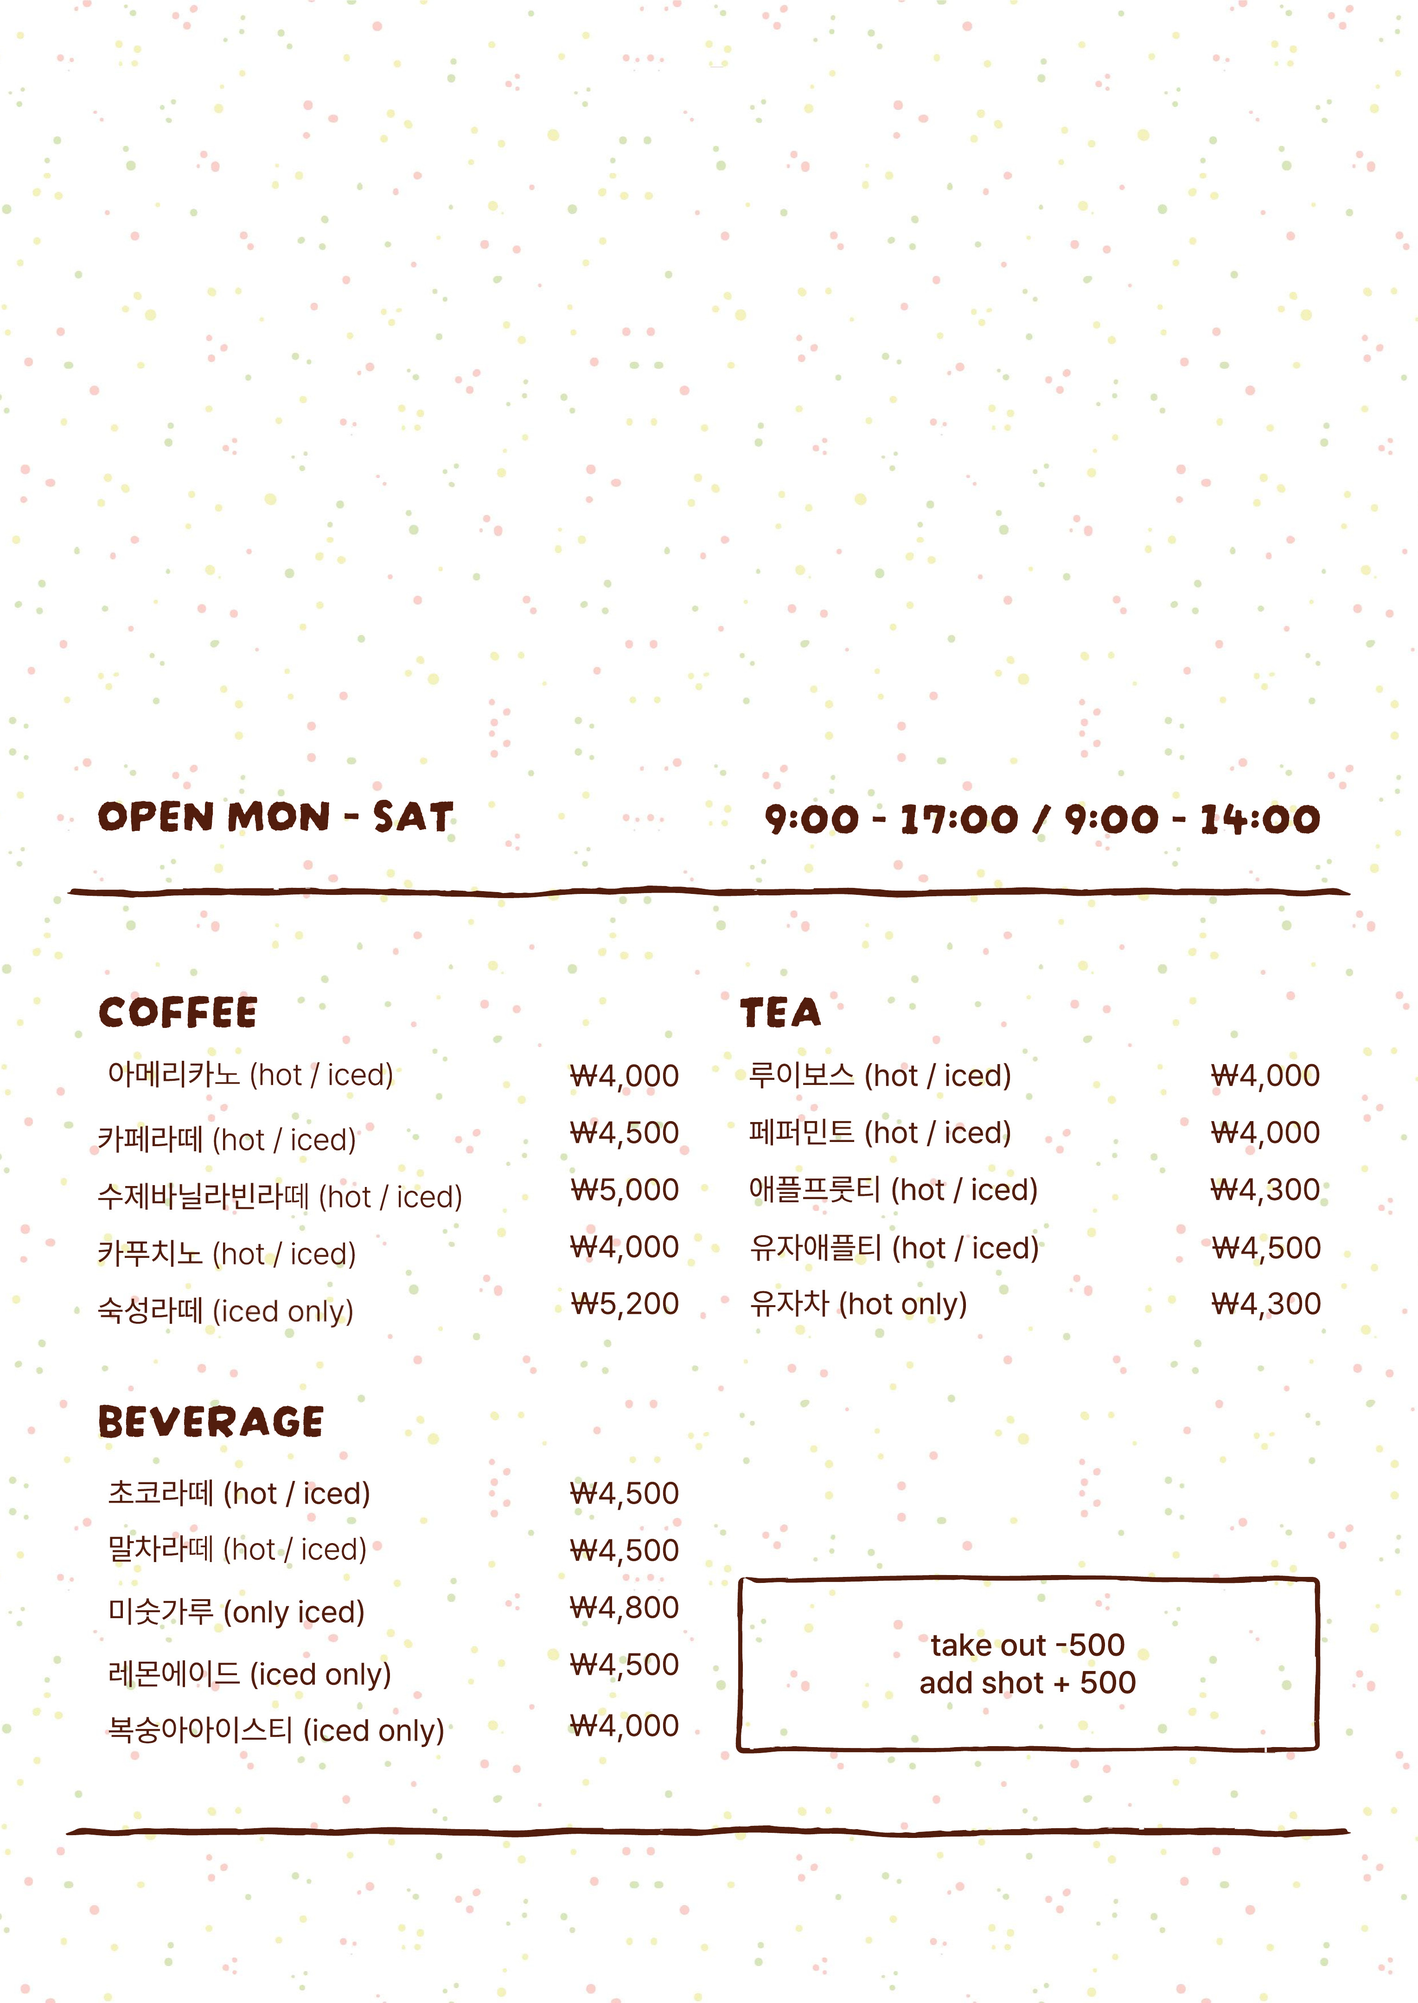
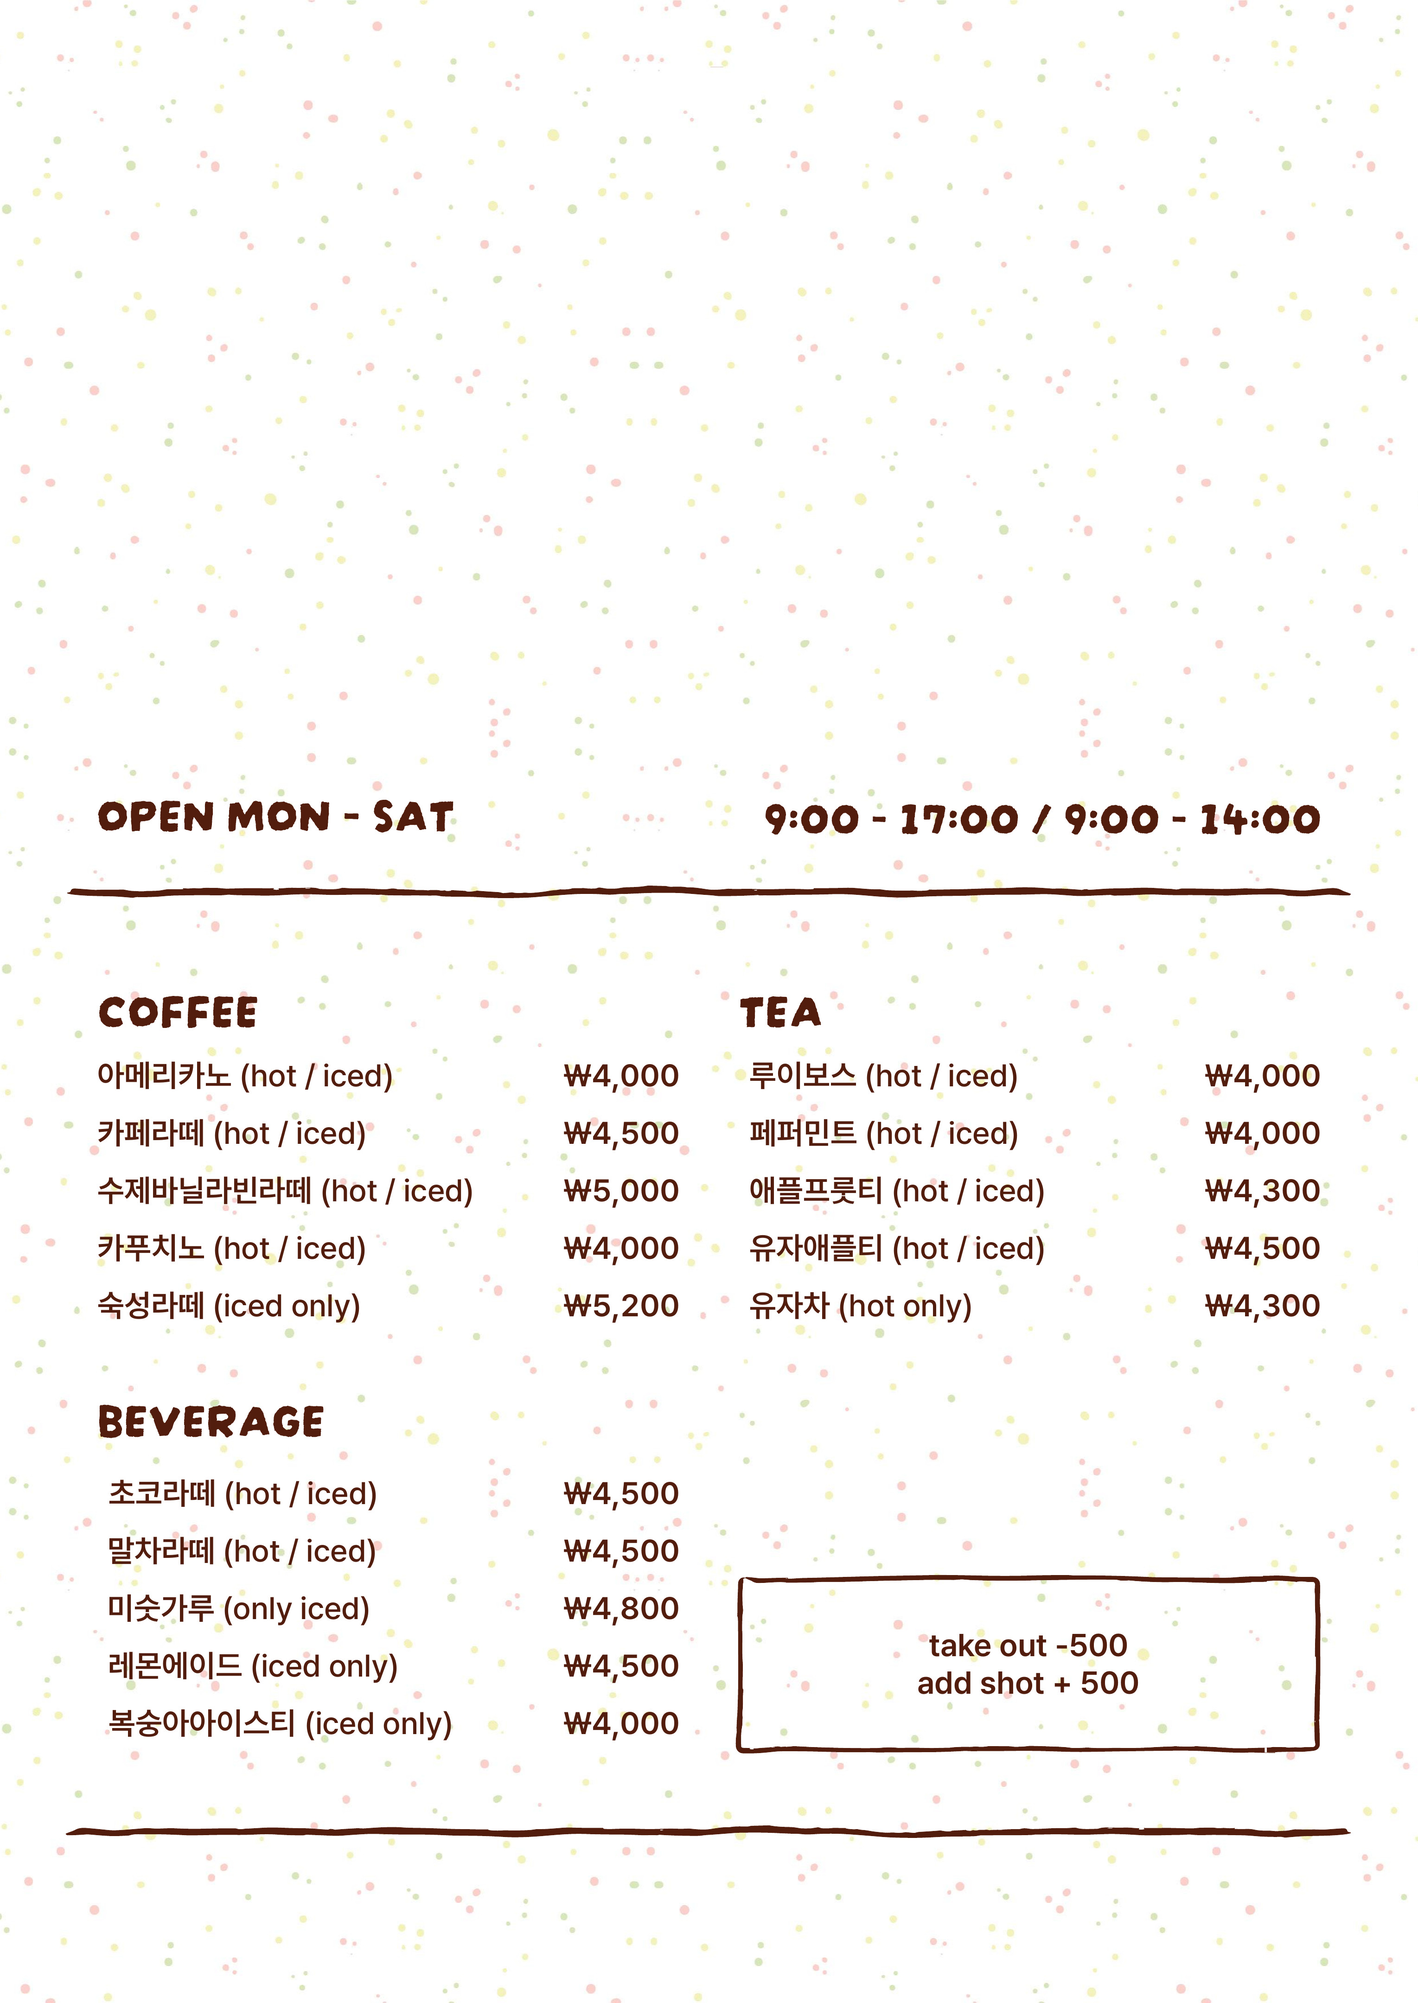
로고 20초 주기 반복·소금 뿌려지는 애니메이션, 메뉴 행 볼드 재조판, 아메리카노 정렬, Pick! 라벨, 전광판 로고 확대
Claude-Session: https://claude.ai/code/session_012HYTAtRX4y2XSQaXUTKD2R

diff --git a/index.html b/index.html
@@ -51,7 +51,26 @@
   .ov { position: absolute; display: block; pointer-events: none; user-select: none; }
   .caret { position: absolute; background: #531d0e; opacity: 0; pointer-events: none; }
   #right.intro .pl { animation: pop .38s cubic-bezier(.3,1.5,.5,1) both; }
-  #right.intro .crumbs { animation: fade .3s ease-out both; }
+  /* Salt flecks sprinkled from above: start --dx/--dy away (set per fleck from JS), fall with an ease-in, overshoot 1 frame, settle. */
+  #right.intro .crumb { animation: sprinkle .45s both; }
+  @keyframes sprinkle {
+    0% { opacity: 0; transform: translate(var(--dx), var(--dy)); animation-timing-function: cubic-bezier(.45, 0, 1, 1); }
+    33% { opacity: 1; }
+    96% { transform: translate(0, var(--os)); animation-timing-function: linear; }
+    100% { opacity: 1; transform: translate(0, 0); } }
+  /* "Pick!" stickers next to recommended items; left/top are fractions of the menu panel, sizes follow the board height. */
+  .pick { position: absolute; margin: 0; pointer-events: none; white-space: nowrap; box-sizing: border-box;
+    height: calc(var(--fh) * 66 / 4320); line-height: calc(var(--fh) * 66 / 4320); padding: 0 0.65em; border-radius: 999px;
+    background: #531d0e; color: #fcfaf5; font-family: Pretendard, -apple-system, BlinkMacSystemFont, "Apple SD Gothic Neo", system-ui, sans-serif;
+    font-weight: 800; font-size: calc(var(--fh) * 46 / 4320); letter-spacing: 0.01em; font-synthesis: none;
+    -webkit-font-smoothing: antialiased; transform-origin: 50% 50%; transform: translateY(-50%) rotate(-6deg);
+    animation: wiggle 6s ease-in-out infinite; }
+  @keyframes wiggle {
+    0%, 10%, 100% { transform: translateY(-50%) rotate(-6deg); }
+    2% { transform: translateY(-50%) rotate(-10deg); }
+    4% { transform: translateY(-50%) rotate(-2deg); }
+    6% { transform: translateY(-50%) rotate(-9deg); }
+    8% { transform: translateY(-50%) rotate(-4deg); } }
   #right.intro .ml { animation: fade .09s linear both; }
   #right.intro .caret { animation: blink .4s step-end 3; }
   @keyframes pop { from { opacity: 0; transform: scale(.6) } 40% { opacity: 1 } to { opacity: 1; transform: scale(1) } }
@@ -65,7 +84,7 @@
     animation: tick var(--dur, 40s) linear infinite; }
   .track img { display: block; flex: none; }
   .track .w { height: calc(var(--fh) * 0.046 * 0.55); margin-right: calc(var(--fh) * 0.034); }
-  .track .s { height: calc(var(--fh) * 0.046 * 0.42); margin-right: calc(var(--fh) * 0.034); }
+  .track .s { height: calc(var(--fh) * 0.046 * 0.85); margin-right: calc(var(--fh) * 0.034); }   /* same gap on both sides as the word gap */
   @keyframes tick { from { transform: translateX(0) } to { transform: translateX(-50%) } }
   .hint { position: fixed; left: 50%; bottom: calc(14px + min(4.6svh, 2.6vw) + env(safe-area-inset-bottom, 0px));   /* above the ticker */ transform: translateX(-50%); z-index: 10;
     font: 500 13px/1.4 Pretendard, -apple-system, system-ui, sans-serif; letter-spacing: .04em;
@@ -76,7 +95,7 @@
   @media (prefers-reduced-motion: reduce) {
     .hint { transition: none } .frame .slide { transition-duration: 0s } .frame .slide.on { animation: none }
     #steam, .price { transition: none } .track { animation: none }
-    #right.intro .pl, #right.intro .crumbs, #right.intro .ml, #right.intro .caret { animation: none } }
+    #right.intro .pl, #right.intro .crumb, #right.intro .ml, #right.intro .caret, .pick { animation: none } }
 </style>
 </head>
 <body>
@@ -97,8 +116,10 @@
       </ul>
     </div>
     <div id="right">
-      <img id="menu" src="menu.jpg?v=9" alt="">
+      <img id="menu" src="menu.jpg?v=10" alt="">
       <div id="logoBox" aria-hidden="true"><canvas id="loopCv"></canvas></div>
+      <p class="pick" aria-hidden="true" style="left:25.997%;top:65.169%">Pick!</p>
+      <p class="pick" aria-hidden="true" style="left:27.109%;top:77.414%">Pick!</p>
     </div>
     <div class="ticker" aria-hidden="true"><div class="track" id="track"></div></div>
   </div>
@@ -155,7 +176,10 @@
     var LOGO_PX = [1278, 928];                     // sprite size of the logo box
     var PATH = [86,687,13,82,683,15,78,678,16,74,674,17,70,669,17,67,664,18,64,659,18,61,654,19,58,648,19,55,643,19,53,638,20,50,632,20,48,627,20,45,621,20,43,616,20,41,610,20,39,604,19,36,599,19,35,593,20,33,587,20,31,582,20,30,576,20,28,570,20,27,564,20,26,558,20,24,552,20,23,547,20,22,541,20,22,535,21,21,529,21,21,523,21,20,517,21,19,511,21,19,505,22,18,499,23,18,493,23,18,487,23,18,481,23,18,475,23,18,469,23,19,463,22,18,457,23,19,451,22,18,445,23,18,439,23,19,433,22,19,427,22,19,421,21,20,415,21,21,409,22,22,403,22,23,397,22,24,391,22,25,385,22,26,380,22,27,374,22,28,368,22,30,362,22,31,356,22,32,350,21,34,345,22,36,339,22,37,333,22,39,327,22,41,321,22,43,316,22,45,310,22,47,305,21,49,299,21,52,294,21,54,288,21,56,283,21,59,277,21,62,272,21,65,267,22,68,261,21,71,256,21,74,251,21,78,246,22,81,241,22,84,236,21,88,232,22,91,227,22,95,222,22,99,217,22,102,212,21,106,208,21,110,204,22,115,199,22,119,195,22,123,191,22,127,187,22,132,183,22,137,179,22,141,175,22,145,171,22,150,167,22,155,163,22,160,160,23,164,156,22,169,153,22,174,149,22,179,146,22,185,143,22,190,140,22,195,137,22,200,134,22,206,132,22,211,129,22,216,126,22,222,124,22,227,121,21,233,119,22,238,117,21,244,115,21,250,113,20,255,111,21,261,109,21,267,107,20,273,106,21,278,104,20,284,103,20,290,102,20,296,101,20,302,100,20,308,99,20,314,99,20,320,98,20,326,98,20,332,98,20,338,98,20,344,98,20,350,97,20,356,97,20,362,98,20,368,98,20,374,99,20,380,99,21,386,100,21,392,100,20,398,101,20,404,102,20,410,102,19,415,104,20,419,109,24,424,111,23,429,114,21,435,117,19,440,119,20,445,122,19,451,122,23,457,124,24,463,126,25,468,129,25,473,132,26,478,135,26,483,138,26,488,142,26,493,145,27,498,149,27,503,152,27,508,156,27,512,160,28,517,164,28,521,168,28,526,172,28,530,176,28,534,181,28,538,185,28,541,190,28,545,195,28,549,199,27,552,204,28,555,209,28,558,215,28,561,220,28,564,225,28,567,230,27,570,236,27,572,241,27,574,247,26,576,252,27,578,258,27,580,264,26,581,270,26,583,275,26,584,281,26,585,287,25,585,293,26,586,299,25,586,305,25,587,311,25,587,317,25,587,323,25,586,329,25,586,335,25,586,341,25,585,347,25,584,353,25,583,359,25,582,365,24,580,371,25,578,376,25,577,382,24,574,388,24,572,393,24,569,398,24,566,404,23,563,409,23,560,414,22,556,418,23,552,423,23,548,427,23,544,431,23,539,435,23,534,439,22,529,442,22,524,445,22,519,448,22,514,451,21,508,453,21,502,455,21,496,456,22,490,457,22,485,458,21,479,459,21,473,459,21,467,459,21,461,459,21,455,458,21,449,458,20,443,457,20,437,456,20,431,454,20,425,453,20,420,451,20,414,449,19,408,446,20,403,444,19,398,441,19,393,437,20,388,434,19,384,430,19,380,425,20,376,421,20,372,416,20,369,411,20,365,406,20,362,401,20,359,396,19,356,390,19,354,385,19,352,379,20,350,374,20,348,368,20,346,362,19,345,357,20,343,351,19,342,345,19,341,339,18,341,333,19,341,327,20,341,321,19,340,315,20,340,309,20,340,303,20,340,297,20,340,291,19,341,285,20,342,279,20,343,273,20,343,267,20,344,261,20,346,255,20,347,249,20,348,244,20,349,238,20,351,232,20,352,226,19,354,220,19,356,215,19,358,209,19,360,204,19,363,198,18,365,192,19,367,187,18,369,181,18,372,176,18,375,171,19,378,166,19,381,160,19,384,155,19,387,150,19,390,145,19,394,140,19,397,135,19,401,130,19,404,125,21,408,120,21,411,115,22,414,110,26,418,105,20,421,101,16,424,96,13,428,91,13,431,86,13,435,81,13,441,81,13,446,80,13,452,79,14,458,79,18,464,77,17,469,73,17,473,70,18,478,66,18,483,63,18,488,59,18,493,56,18,498,53,18,504,50,18,509,47,18,514,45,18,520,42,18,525,40,18,531,37,18,536,36,18,542,34,19,548,32,19,554,30,19,559,29,19,565,27,19,571,26,19,577,25,19,583,23,19,589,22,19,595,21,20,601,20,20,607,19,20,612,19,20,618,18,20,624,17,22,630,17,22,636,17,22,642,17,22,648,17,22,654,17,22,660,18,21,666,18,22,672,18,22,678,18,22,684,18,22,690,18,22,696,19,21,702,20,21,708,21,21,714,22,21,720,23,21,726,24,21,732,25,20,738,26,20,744,27,19,749,29,20,755,30,20,761,32,19,767,33,19,773,35,19,778,36,18,784,38,19,789,41,19,795,43,19,801,46,18,806,48,19,812,50,19,817,53,19,822,56,18,828,58,18,833,61,19,838,64,19,843,67,18,848,71,18,853,74,19,858,77,19,863,81,19,868,84,19,873,88,19,878,91,19,882,95,20,887,99,20,891,103,20,896,107,20,900,111,20,904,115,21,909,120,21,913,124,20,917,128,20,921,133,21,925,137,20,929,142,20,933,146,20,936,151,20,940,156,20,944,161,20,947,166,20,950,170,20,954,175,20,957,180,20,960,185,20,964,191,20,967,196,20,970,201,20,973,206,20,976,211,19,978,217,19,981,222,20,984,227,20,986,233,20,989,238,20,991,244,20,993,250,20,995,255,21,997,261,21,999,267,21,1000,272,21,1002,278,21,1003,284,22,1004,290,22,1005,296,22,1006,302,22,1007,308,22,1008,314,22,1009,320,24,1010,325,25,1011,331,22,1011,337,21,1012,343,19,1013,349,18,1014,355,17,1013,361,18,1011,366,19,1009,372,21,1008,378,20,1007,384,20,1007,390,21,1006,396,20,1006,402,20,1005,408,20,1004,414,20,1003,420,20,1001,426,20,1000,431,20,999,437,19,997,443,19,996,449,18,994,455,18,992,460,18,990,466,18,987,471,18,985,477,18,983,482,18,980,488,17,978,493,17,975,499,16,971,503,17,968,508,17,964,513,16,959,517,17,954,520,18,949,523,18,943,525,19,938,526,20,932,527,20,926,525,20,920,523,20,915,519,19,911,515,19,908,510,18,905,505,18,904,499,18,903,493,18,903,487,18,903,481,17,904,475,18,905,469,18,906,463,18,908,457,18,910,452,18,911,446,18,914,440,18,916,435,18,918,429,17,921,424,17,924,419,17,927,414,17,931,409,17,934,404,17,937,399,17,941,394,17,944,389,17,948,384,17,952,380,17,956,375,17,960,371,17,964,367,17,968,362,17,973,358,17,977,354,16,981,350,16,986,346,16,990,342,15,995,338,15,999,333,15,1003,329,18,1008,325,23,1012,321,22,1016,317,16,1021,313,13,1027,313,13,1032,315,13,1038,318,15,1044,318,17,1049,317,16,1055,315,16,1061,313,16,1066,311,17,1072,309,17,1078,307,17,1084,306,17,1089,305,17,1095,304,17,1101,303,16,1107,303,16,1113,303,17,1119,302,16,1125,302,16,1131,303,16,1137,304,16,1143,304,16,1149,305,16,1155,306,16,1161,307,16,1167,309,16,1172,311,16,1178,313,16,1184,315,16,1189,317,16,1194,320,17,1199,323,17,1204,327,17,1209,330,17,1214,334,17,1218,339,18,1222,343,18,1226,347,17,1230,352,17,1233,357,18,1236,362,18,1240,367,18,1243,372,17,1245,378,18,1248,383,18,1250,389,18,1252,394,18,1254,400,18,1256,406,19,1257,411,19,1259,417,18,1260,423,19,1261,429,20,1262,435,20,1262,441,20,1262,447,19,1262,453,19,1262,459,19,1262,465,17,1261,471,17,1261,477,17,1260,483,17,1259,489,17,1258,495,16,1258,501,16,1257,506,16,1256,512,16,1255,518,16,1254,524,15,1252,530,15,1250,536,16,1249,542,15,1247,547,15,1245,553,15,1242,558,15,1240,564,15,1237,569,15,1233,573,14,1229,578,13,1224,582,13];                            // flat [x, y, r, ...] along the stroke, in sprite px
     var LOOP_MS = 2400, POP0 = LOOP_MS, POP_STEP = 120, CRUMB_AT = LOOP_MS + 5 * POP_STEP + 120,
-        MENU0 = LOOP_MS + 5 * POP_STEP + 300, MENU_STEP = 160, CARET_AT = MENU0 + 3 * MENU_STEP + 160;
+        MENU0 = LOOP_MS + 5 * POP_STEP + 300, MENU_STEP = 160, CARET_AT = MENU0 + 3 * MENU_STEP + 160,
+        CRUMB_STEP = 90, CRUMB_END = CRUMB_AT + 6 * CRUMB_STEP + 450, INTRO_MS = Math.max(CARET_AT + 3 * 400, CRUMB_END),
+        GAP_MS = 20000;                  // replay 20 s after the previous intro finished
+    var replay = 0;
     var right = document.getElementById('right'), box = document.getElementById('logoBox'), cv = document.getElementById('loopCv');
     var ctx = cv.getContext('2d'), mask = document.createElement('canvas'), mctx = mask.getContext('2d');
     var reduce = window.matchMedia && window.matchMedia('(prefers-reduced-motion: reduce)').matches;
@@ -168,7 +192,20 @@
     place(box, LOGO);
     var loopImg = new Image(); loopImg.src = 'assets/logo-loop.png';
     LETTERS.forEach(function (b, i) { sprite('assets/logo-' + i + '.png', b, 'pl', box, POP0 + i * POP_STEP); });
-    sprite('assets/logo-crumbs.png', [0, 0, 1, 1], 'crumbs', box, CRUMB_AT);
+    // Salt flecks (one sprite each), sprinkled in a random order from ~0.12 box heights above.
+    var CRUMBS = [[0.53521, 0.07866, 0.02191, 0.03987], [0.47653, 0.09052, 0.04225, 0.03448], [0.55008, 0.11961, 0.03756, 0.03879], [0.63772, 0.12392, 0.02504, 0.04095], [0.60955, 0.12931, 0.02739, 0.04741], [0.57277, 0.15517, 0.02113, 0.02909], [0.65571, 0.17888, 0.03208, 0.03556]];
+    var crumbEls = CRUMBS.map(function (b, i) { return sprite('assets/crumb-' + i + '.png', b, 'crumb', box); });
+    function scatter() {                 // new random order and x offsets for each replay (translate % = of the fleck's own size)
+      var order = crumbEls.map(function (_, i) { return i; });
+      for (var i = order.length - 1; i > 0; i--) { var j = Math.floor(Math.random() * (i + 1)), t = order[i]; order[i] = order[j]; order[j] = t; }
+      order.forEach(function (k, n) {
+        var el = crumbEls[k], b = CRUMBS[k];
+        el.style.animationDelay = (CRUMB_AT + n * CRUMB_STEP) + 'ms';
+        el.style.setProperty('--dy', (-0.12 / b[3] * 100).toFixed(1) + '%');
+        el.style.setProperty('--dx', ((Math.random() * 2 - 1) * 0.02 / b[2] * 100).toFixed(1) + '%');
+        el.style.setProperty('--os', (0.004 / b[3] * 100).toFixed(1) + '%');
+      });
+    }
     MENU.forEach(function (b, i) { sprite('assets/menu-' + i + '.png', b, 'ml', right, MENU0 + i * MENU_STEP); });
     var last = MENU[MENU.length - 1], caret = document.createElement('i');
     caret.className = 'caret'; caret.style.animationDelay = CARET_AT + 'ms';
@@ -212,29 +249,32 @@
       if (!ready) { pending = true; return; }
       if (raf) cancelAnimationFrame(raf); raf = 0;
       right.classList.remove('intro'); void right.offsetWidth;
+      clearTimeout(replay); replay = 0;
       if (reduce) { finished = true; paint(); return; }
+      console.log('[intro] start', Math.round(performance.now()));
       mctx.clearRect(0, 0, mask.width, mask.height); done = 0; finished = false; t0 = 0; paint();
-      right.classList.add('intro');
+      scatter(); right.classList.add('intro');
+      replay = setTimeout(play, INTRO_MS + GAP_MS);
       raf = requestAnimationFrame(tick);
     }
     var pending = false;
-    function onReady() { ready = true; size(); paint(); if (pending) { pending = false; play(); } }
+    function onReady() { ready = true; size(); paint(); pending = false; play(); }   // intro on load, then on its own timer
     if (loopImg.complete && loopImg.naturalWidth) onReady(); else loopImg.onload = onReady;
     window.addEventListener('resize', size);
     if (window.ResizeObserver) new ResizeObserver(size).observe(box);
     if (window.matchMedia) {
       var mq = window.matchMedia('(prefers-reduced-motion: reduce)');
-      var onMq = function () { reduce = mq.matches; if (reduce) { if (raf) cancelAnimationFrame(raf); raf = 0; finished = true; right.classList.remove('intro'); paint(); } };
+      var onMq = function () { reduce = mq.matches; if (reduce) { if (raf) cancelAnimationFrame(raf); raf = 0; clearTimeout(replay); replay = 0; finished = true; right.classList.remove('intro'); paint(); } else if (!replay && ready) play(); };
       mq.addEventListener ? mq.addEventListener('change', onMq) : mq.addListener && mq.addListener(onMq);
     }
-    return { play: play, timings: { loop: LOOP_MS, pop: POP0, crumbs: CRUMB_AT, menu: MENU0, caret: CARET_AT } };
+    return { play: play, timings: { loop: LOOP_MS, pop: POP0, crumbs: CRUMB_AT, menu: MENU0, caret: CARET_AT, total: INTRO_MS, gap: GAP_MS } };
   })();
   // Ticker: PICK WHAT YOU LOVE, repeated, two identical halves scrolled by -50% for a seamless loop.
   (function () {
     var frame = document.getElementById('frame'), track = document.getElementById('track');
-    var PICK = [1322, 89], MINI = [153, 84];           // sprite sizes (px)
+    var PICK = [1322, 89], MINI = [307, 168];           // sprite sizes (px)
     // Unit width in frame-height units: word + gap + separator + gap.
-    var bandH = 0.046, unit = bandH * 0.55 * PICK[0] / PICK[1] + 0.034 + bandH * 0.42 * MINI[0] / MINI[1] + 0.034;
+    var bandH = 0.046, unit = bandH * 0.55 * PICK[0] / PICK[1] + 0.034 + bandH * 0.85 * MINI[0] / MINI[1] + 0.034;
     var perHalf = Math.ceil((16 / 9) / unit) + 1;
     var html = '';
     for (var i = 0; i < perHalf * 2; i++) html += '<img class="w" src="assets/pick-what-you-love.png" alt=""><img class="s" src="assets/loop-mini.png" alt="">';
@@ -244,7 +284,6 @@
     frame.style.setProperty('--dur', (halfInFrameWidths * 3840 / 90).toFixed(3) + 's');
   })();
   // Slideshow on the photo panel: home (photo + price + steam) 12 s, then each photo 7 s, looping.
-  // Each return to home replays the menu intro.
   (function () {
     var slides = [].slice.call(document.querySelectorAll('#slides .slide'));
     var HOME = 12000, PHOTO = 7000, idx = 0, timer = 0;   // idx 0 = home, 1..n = photos
@@ -254,7 +293,6 @@
         else el.classList.remove('on');
       });
       document.body.classList.toggle('away', i !== 0);
-      if (i === 0 && window.boardIntro) window.boardIntro.play();
     }
     function next() { idx = (idx + 1) % (slides.length + 1); show(idx); schedule(); }
     function schedule() { clearTimeout(timer); timer = setTimeout(next, idx === 0 ? HOME : PHOTO); }
